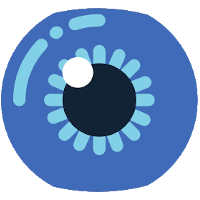
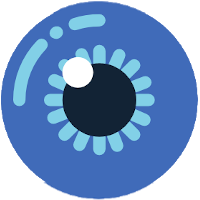
Mirroring
It is not possible for creature bodies to be mirrored while randomizing that creature's DNA.
The eye image has also been fixed in this update.

Changed region(s): [[0.21, 0.9, 0.78, 1.0], [0.27, 0.0, 0.75, 0.09]]

diff --git a/sprites.py b/sprites.py
@@ -3,6 +3,7 @@ import sys
 import random
 import networks
 import math
+import numpy
 
 from PyQt5 import QtCore, QtGui
 from PyQt5 import QtWidgets
@@ -28,6 +29,11 @@ def calculateDistance(x1,y1,x2,y2):
     dist = math.sqrt( (x2 - x1)**2 + (y2 - y1)**2 )
     return dist
 
+def positive(x):
+    if x > 0:
+        return x
+    return -x
+
 
 
 class Brain():
@@ -45,7 +51,8 @@ class DNA():
         #       "elasticity": <integer>,
         #       "mass": <integer>,
         #       "first": <boolean>,
-        #       "relative_pos": [<integer>, <integer>]
+        #       "relative_pos": [<integer>, <integer>],
+        #       "mirror_self": <cell_id>
         #   }
         #}
         # `relative_pos` helps keep cells from forming to close to one another (starts at [0,0] for the first cell)
@@ -60,6 +67,14 @@ class DNA():
         #        <Cell_ID_1>: [<X_Direction>, <Y_Direction>],
         #        <Cell_ID_2>: [<X_Direction>, <Y_Direction>]
         #   }
+        #}
+
+        self.base_info = {"distanceThreshold": 2.5, "mirror_x": False, "mirror_y": False, "maximum_creation_tries": 30}
+        # Structure: {
+        #    "distanceThreshold": <integer>,
+        #    "mirror_x": <boolean>,
+        #    "mirror_y": <boolean,
+        #    "maximum_creation_tries": 30
         #}
 
     def cell_size(self, cell_id):
@@ -130,6 +145,11 @@ class DNA():
         cell_info["friction"] = cell_friction
 
         if first_cell:
+            cell_info["mirror_self"] = cell_id
+        else:
+            cell_info["mirror_self"] = None
+
+        if first_cell:
             cell_type = "heart"
         else:
             cell_type = random.choice(cell_types)
@@ -163,15 +183,61 @@ class DNA():
 
         return newRelPos
 
+    def _cell_mirrorable(self, x, y, cell_info):
+        cellSize = cell_info["size"]
+        protrusionSizeX = x - (cellSize/2)
+        protrusionSizeY = y - (cellSize/2)
+
+        x_dist = protrusionSizeX*2
+        y_dist = protrusionSizeY*2
+
+        if self.base_info["mirror_x"]:
+            if x_dist < 0:
+                if positive(x_dist) > (cellSize/self.base_info["distanceThreshold"]):
+                    return False
+        if self.base_info["mirror_y"]:
+            if y_dist < 0:
+                if positive(y_dist) > (cellSize/self.base_info["distanceThreshold"]):
+                    return False
+        return True
+
     def _viable_cell_position(self, x, y, cellInfo):
         id, dist = self._closest_cell_to_point(x, y)
 
         size1 = cellInfo["size"]
         size2 = self.cell_size(id)
 
-        if dist > (size1/2.5 + size2/2.5):
+        if self.base_info["mirror_x"] or self.base_info["mirror_y"]:
+            if not self._cell_mirrorable(x, y, cellInfo):
+                return False
+
+        if dist > (size1/self.base_info["distanceThreshold"] + size2/self.base_info["distanceThreshold"]):
             return True
         return False
+
+    def _apply_mirror(self, cell_id, grows_from, grow_direction):
+        newID = self._new_cell_id()
+        cell_info = self.cells[cell_id].copy()
+
+        self.cells[cell_id]["mirror_self"] = newID
+        cell_info["mirror_self"] = cell_id
+
+        relative_pos = self.cells[cell_id]["relative_pos"][:]
+
+        if self.base_info["mirror_x"]:
+            relative_pos[0] = -relative_pos[0]
+        if self.base_info["mirror_y"]:
+            relative_pos[1] = -relative_pos[1]
+
+        new_grows_from = self.cells[grows_from]["mirror_self"]
+        new_grow_direction = [-i for i in grow_direction]
+
+        self.growth_pattern[new_grows_from][newID] = new_grow_direction
+
+        cell_info["relative_pos"] = relative_pos
+
+        self.cells[newID] = cell_info
+        self.growth_pattern[newID] = {}
 
     def add_randomized_cell(self, sizeRange, massRange, first_cell=False):
         cell_id, cell_info = self._make_random_cell(sizeRange, massRange, first_cell=first_cell)
@@ -181,7 +247,11 @@ class DNA():
 
         if self.cells and not first_cell:
             pos_verified = False
+            iterations = 0
             while not pos_verified:
+                if iterations > self.base_info["maximum_creation_tries"]:
+                    return False
+                iterations += 1
                 grow_from = random.choice( list(self.cells) )
                 grow_direction = random_direction()
 
@@ -197,34 +267,37 @@ class DNA():
         self.cells[cell_id] = cell_info
         self.growth_pattern[cell_id] = {}
 
-    def can_be_mirrored(self, mirror_x=True, mirror_y=True):
-        for cell_id in self.cells:
-            new_rel_pos = [ self.cells[cell_id]["relative_pos"][0], self.cells[cell_id]["relative_pos"][1] ]
-
-            relX = new_rel_pos[0]
-            relY = new_rel_pos[1]
-
-            if mirror_x:
-                relX = -relX
-            if mirror_y:
-                relY = -relY
-
-            cellInfo = self.cells[cell_id]
-
-            if cellInfo["first"]:
-                continue
-            if not self._viable_cell_position(relX, relY, cellInfo):
-                return False
+        if not first_cell:
+            if self.base_info["mirror_x"] or self.base_info["mirror_y"]:
+                grow_from = self.grows_from(cell_id)
+                grow_direction = self.growth_pattern[grow_from][cell_id]
+                self._apply_mirror(cell_id, grow_from, grow_direction)
         return True
 
-    def randomize(self, cellRange=[5,40], sizeRange=[9,42], massRange=[5,20]):
+    def randomize(self, cellRange=[3,30], sizeRange=[6,42], massRange=[5,20], mirror_x=[0.6, 0.4], mirror_y=[0.6, 0.4]):
         self.cells = {}
         self.growth_pattern = {}
 
+        mirror_x = numpy.random.choice(numpy.arange(0, 2), p=mirror_x)
+        mirror_y = numpy.random.choice(numpy.arange(0, 2), p=mirror_y)
+
+        mirror_x = bool(mirror_x)
+        mirror_y = bool(mirror_y)
+
+        self.base_info["mirror_x"] = mirror_x
+        self.base_info["mirror_y"] = mirror_y
+
         first_cell = True
         for i in range(random.randrange(cellRange[0], cellRange[1])):
-            self.add_randomized_cell(sizeRange, massRange, first_cell=first_cell)
+            added = False
+            while not added:
+                added = self.add_randomized_cell(
+                    sizeRange,
+                    massRange,
+                    first_cell=first_cell
+                )
             first_cell = False
+        print("Mirror X: {}\nMirror Y: {}\n\n".format(self.base_info["mirror_x"], self.base_info["mirror_y"]))
         return self
 
 
@@ -323,7 +396,7 @@ if __name__ == "__main__":
         env = shatterbox.setupEnvironment(myapp.worldView, myapp.scene)
 
         org = Organism([300,300], env)
-        org2 = Organism([480,480], env)
+        org2 = Organism([500,500], env)
 
         fCell = org.dna.first_cell()
 
